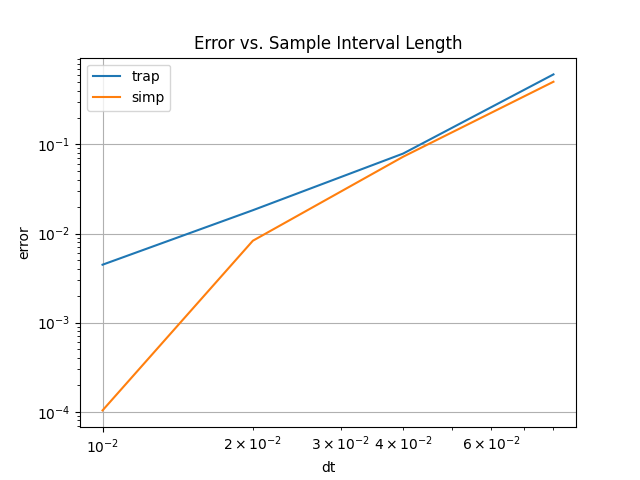
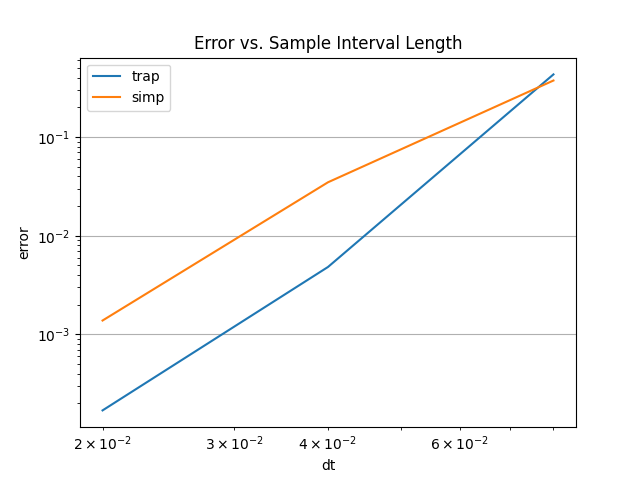
updated Trap Simp convergence plot and added T value print

diff --git a/examples/driver_seismic.py b/examples/driver_seismic.py
@@ -6,7 +6,8 @@ def main ():
     s_wave = np.loadtxt("data/s_wave_data.txt", dtype='float')
 
     time = s_wave[:, 0]
-    velocity = s_wave[:, 1]
+    vel = s_wave[:, 1]
+    velocity = vel ** 2
 
     #Create end point for the data
     max_velocity = np.max(np.abs(velocity))
@@ -62,12 +63,6 @@ def main ():
     rel_err_simp.append(err_3_simp)
     dt.append(x_2[1] - x_2[0])
 
-    err_4_trap = abs((int_trap_1 - int_trap_2)/int_trap_1)
-    err_4_simp = abs((int_simp_1 - int_simp_2)/int_simp_1)
-    rel_err_trap.append(err_4_trap)
-    rel_err_simp.append(err_4_simp)
-    dt.append(x[1] - x[0])
-
     plt.loglog(dt, rel_err_trap, label='trap')
     plt.loglog(dt, rel_err_simp, label='simp')
     plt.title("Error vs. Sample Interval Length")
@@ -76,6 +71,7 @@ def main ():
     plt.legend()
     plt.grid()
     plt.savefig("figures/Trap_Simp_Convergence_Plot.png")
+    print(f"Value T used in the integration: {velocity[T_index]}")
 
 if __name__ == "__main__":
     main()
